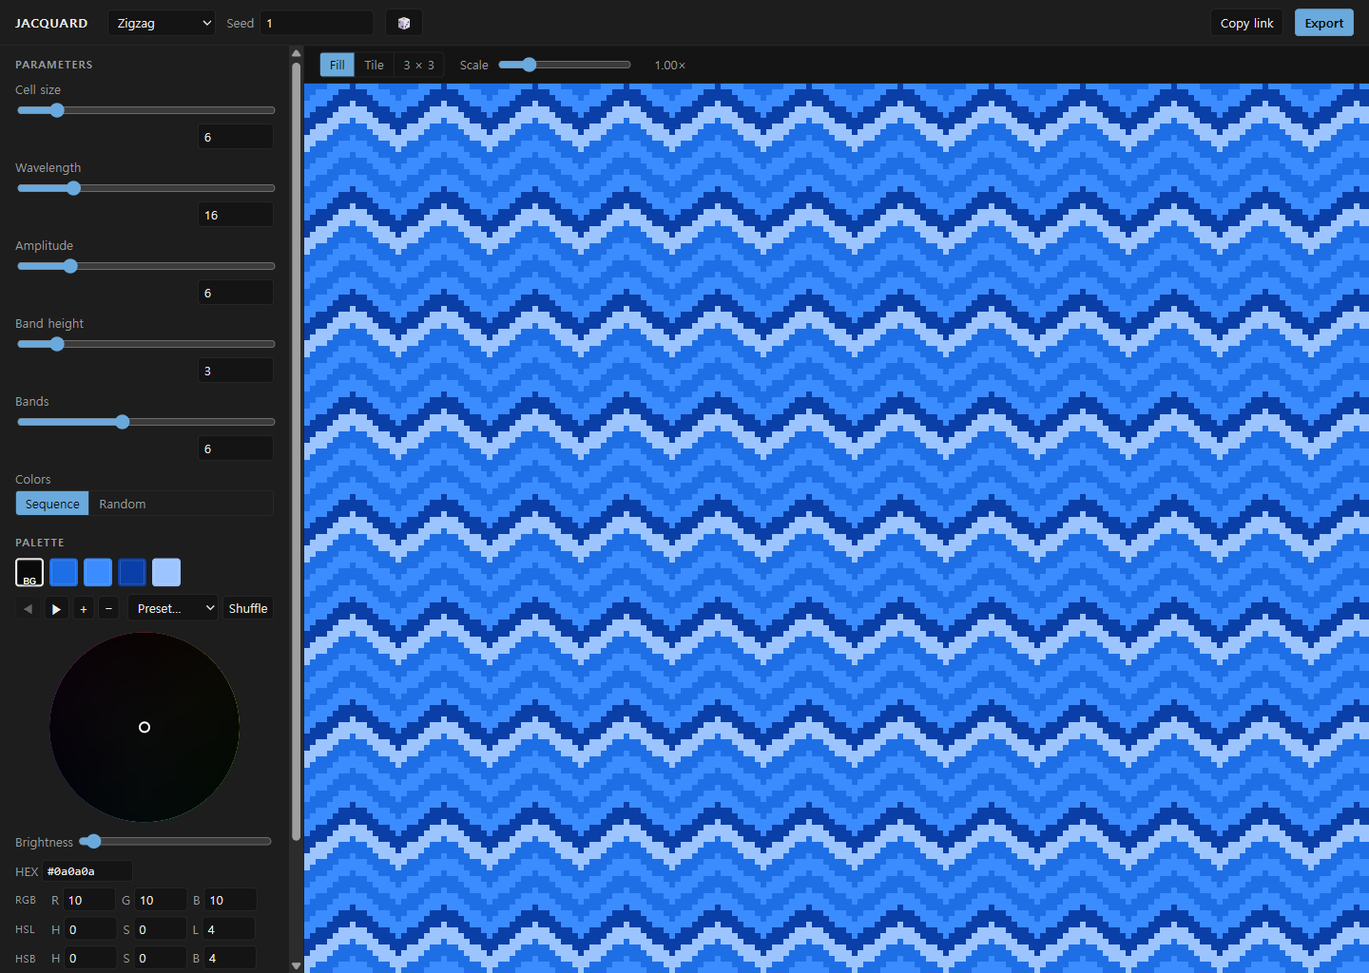
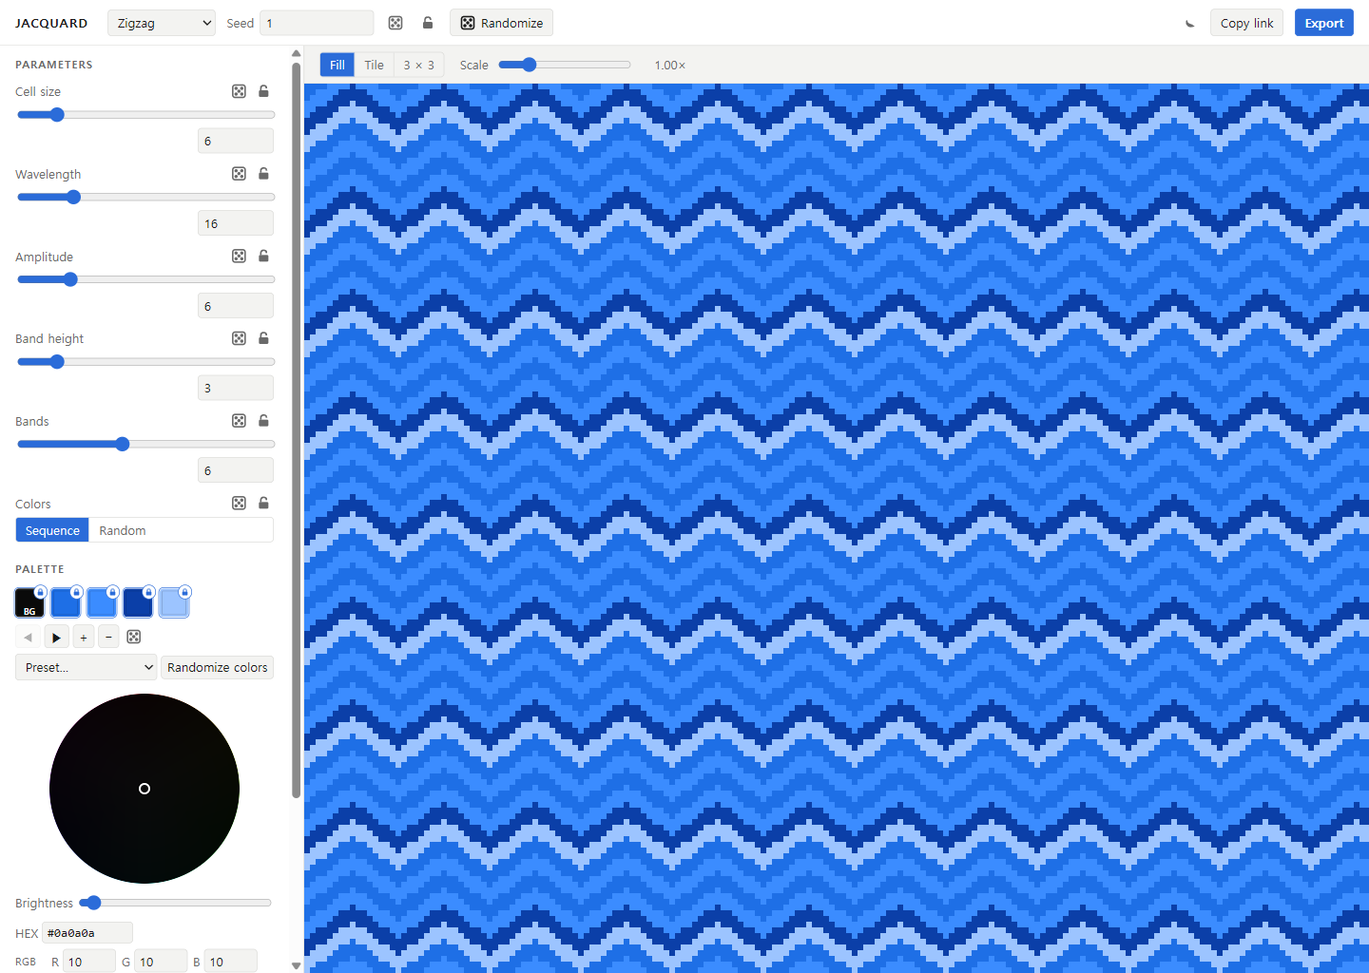
docs: v1.1 README·스크린샷(라이트 테마), 배포 기록
Claude-Session: https://claude.ai/code/session_011SGqeGVh1urf7c7diUsMhB

Changed region(s): [[0.0, 0.0, 1.0, 1.0]]

diff --git a/README.md b/README.md
@@ -25,10 +25,13 @@ canvas — 1080 × 1080, A3 at 300 dpi, or your own size up to 8192 px — as PN
 
 Everything is reproducible. A generator is a pure function of its parameters, the palette and a
 seeded PRNG, so the same seed always gives the same tile; the seed sits in the top bar with a dice
-button next to it. The complete state — generator, seed, every parameter and every colour — is
-base64url JSON in the URL hash, so **Copy link** hands someone else the exact pattern you are
-looking at. And because the generator only ever emits a small intermediate scene of rectangles,
-polygons and linear gradients, the tile you see on screen is the tile that gets exported.
+button next to it. **Randomize**, beside the seed, rerolls the seed, every parameter and every
+colour in one press — except what is locked: anything you set by hand locks itself, and a lock icon
+on every control and every swatch lets you pin the rest. The complete state — generator, seed,
+every parameter, every colour and every lock — is base64url JSON in the URL hash, so **Copy link**
+hands someone else the exact pattern you are looking at. And because the generator only ever emits
+a small intermediate scene of rectangles, polygons and linear gradients, the tile you see on screen
+is the tile that gets exported.
 
 ## Screenshots
 
@@ -51,6 +54,10 @@ polygons and linear gradients, the tile you see on screen is the tile that gets 
 | Palette editor — wheel, brightness, HEX/RGB/HSL/HSB | Export dialog — canvas mode |
 | --- | --- |
 | ![Palette panel with the colour wheel and numeric inputs](docs/screenshots/palette-editor.png) | ![Export dialog in canvas mode at 1080 × 1080](docs/screenshots/export-dialog.png) |
+
+| Locks and Randomize — two locked parameters, a locked seed | Palette locks — a badge on every locked swatch | Dark theme — the 3 × 3 view |
+| --- | --- | --- |
+| ![Top bar with Randomize, a locked seed and two locked parameters](docs/screenshots/locks-topbar.png) | ![Palette with lock badges on four of six swatches](docs/screenshots/palette-locks.png) | ![The same app in the dark theme](docs/screenshots/theme-dark.png) |
 
 ## Features
 
@@ -78,8 +85,15 @@ polygons and linear gradients, the tile you see on screen is the tile that gets 
   on the colour wheel (angle = hue, distance from centre = saturation), the brightness slider, or
   the HEX / RGB / HSL / HSB fields — all four stay in sync, and hue survives a trip through grey
 - **Eight preset palettes** — Missoni Blue, Walala, Underground, Boogie, Poppy Field, Bauhaus,
-  Neon Op, Candy Weave. **Shuffle** builds a new one instead: hues spaced by the golden angle
-  (137.5°), saturation 55–85, value 35–90, and a background that is either very light or very dark
+  Neon Op, Candy Weave. **Randomize colors** builds a new one instead: hues spaced by the golden
+  angle (137.5°), saturation 55–85, value 35–90, and a background that is either very light or
+  very dark
+- **Randomize with locks** — **Randomize** in the top bar changes the seed, every parameter and
+  every unlocked colour in one press, and never changes the generator. Anything you touched is
+  locked automatically; a lock icon sits on every control and a lock badge on every swatch, so you
+  can pin or release anything by hand; and a dice button next to each value rerolls just that one
+- **Light and dark themes** — light by default, with a sun / moon button in the top bar. The choice
+  is remembered in this browser under `jacquard-theme`; the OS setting is not consulted
 - **Three preview modes** — Fill repeats the tile across the whole canvas; Tile shows exactly one;
   3 × 3 shows nine with dashed boundary lines so you can check the seams. Scale runs 0.25× to 4×,
   and the panel reports the tile in units, in pixels at the current scale, and its shape count
@@ -91,8 +105,9 @@ polygons and linear gradients, the tile you see on screen is the tile that gets 
   stays within 8192 px. Files come out as `jacquard-<generator>-<seed>.png` / `.jpg`
 - **URL sharing** — the whole state is base64url JSON in the location hash, rewritten 300 ms after
   your last change. **Copy link** puts the current URL on the clipboard; opening it restores the
-  generator, seed, parameters and palette. A link with stale or hand-edited values still loads —
-  unknown parameters are dropped, numbers are snapped and clamped, bad colours fall back
+  generator, seed, parameters, palette and locks. A link with stale or hand-edited values still
+  loads — unknown parameters are dropped, numbers are snapped and clamped, bad colours fall back,
+  locks on keys the generator does not have or on swatches that do not exist are discarded
 
 ## Controls
 
@@ -102,7 +117,10 @@ The left panel is the instrument; the preview to the right is the result.
 | --- | --- |
 | Generator dropdown (top bar) | Switches generator. Parameters reset to that generator's defaults and the palette is kept, padded if the new generator needs more colours |
 | Seed field, `Enter` or blur | Sets the seed (integer, 0 … 4294967295). Out-of-range or non-numeric input is ignored |
-| 🎲 | Fresh random seed |
+| Randomize (top bar) | Rerolls the seed, every parameter and every colour that is not locked. The generator, the locks themselves and the palette length never change |
+| Dice next to a value / swatch | Randomizes only that value — one parameter, the seed, or the selected swatch. It never locks anything, and it works on a locked item too |
+| Lock icon / swatch badge | Locks or unlocks that parameter, the seed or that swatch. A locked item keeps its value through **Randomize**, and you can still edit it by hand |
+| Sun / moon | Switches between the light and the dark theme |
 | Copy link | Copies the current URL to the clipboard; the button reads **Copied** for 1.2 s (or **Copy failed**) |
 | Export | Opens the export dialog |
 | Parameter sliders, number boxes, segmented buttons, checkboxes | Redraw the tile immediately |
@@ -110,10 +128,18 @@ The left panel is the instrument; the preview to the right is the result.
 | ◀ ▶ | Move the selected colour along the palette |
 | `+` / `−` | Add a colour (up to 8) / remove the selected one (down to the generator's minimum) |
 | Preset… | Applies one of the eight preset palettes |
-| Shuffle | Generates a new palette of the same length |
+| Randomize colors | New colours for every unlocked swatch, at the same palette length |
 | Colour wheel, Brightness, HEX / RGB / HSL / HSB | Edit the selected colour |
 | Fill / Tile / 3 × 3 | Preview mode |
 | Scale slider | 0.25× to 4×, in quarter steps |
+
+Locks follow what you do. Moving a slider, typing in a number box, pressing a segmented button or
+ticking a checkbox locks that parameter; typing a seed locks the seed; editing a colour on the
+wheel, the brightness slider or the HEX / RGB / HSL / HSB fields locks that swatch; applying a
+preset locks every swatch. The per-value dice buttons and **Randomize colors** never lock anything.
+**Randomize** leaves every locked item alone and never changes the generator. Switching generators
+clears the parameter locks and keeps the seed and swatch locks. Locks travel with the URL, so a
+shared link arrives with the same things pinned.
 
 ## How a tile is built
 
@@ -141,8 +167,9 @@ The left panel is the instrument; the preview to the right is the result.
 - [React 19](https://react.dev) + TypeScript 6 + [Vite 8](https://vite.dev)
 - Canvas 2D for rendering and for PNG / JPG encoding (`toBlob`, JPEG quality 0.92) — no image
   libraries, no server round-trip
-- [Vitest](https://vitest.dev) — 181 tests across 18 files, run in the Node environment because
-  the generators, the Scene geometry and the colour maths never touch the DOM
+- [Vitest](https://vitest.dev) — 212 tests across 21 files, run in the Node environment because
+  the generators, the Scene geometry, the lock and randomisation rules and the colour maths never
+  touch the DOM
 - [oxlint](https://oxc.rs)
 - Runtime dependencies: `react` and `react-dom`, and nothing else. The PRNG, the colour
   conversions and the colour wheel (two stacked CSS gradients) are all in this repo
@@ -161,7 +188,9 @@ src/
 │   ├── scene.ts         # Scene IR, tileWrap, polygon clipping
 │   ├── params.ts        # Parameter definitions, snapping and clamping
 │   ├── state.ts         # PatternState, base64url hash encode / decode
-│   └── palettes.ts      # Presets, palette padding, golden-angle random palette
+│   ├── palettes.ts      # Presets, palette padding, golden-angle random palette
+│   ├── locks.ts         # LockState and the pure helpers that move locks around
+│   └── random.ts        # Random value / palette / whole-state rules, locks respected
 ├── generators/          # One pure function per generator
 │   ├── index.ts         # Registry + generateScene()
 │   ├── types.ts         # GeneratorDef, GenContext
@@ -172,24 +201,27 @@ src/
 │   ├── canvas.ts        # renderTile, renderFill (createPattern)
 │   └── export.ts        # Size presets, 8192 px limit, encode, download
 └── ui/
-    ├── TopBar.tsx       # Generator, seed, copy link, Export
+    ├── TopBar.tsx       # Generator, seed + lock + dice, Randomize, theme, copy link, Export
     ├── ControlPanel.tsx # Parameters + output readout
-    ├── ParamControl.tsx # range / select / toggle widgets
-    ├── PalettePanel.tsx # Swatches, presets, shuffle
+    ├── ParamControl.tsx # range / select / toggle widgets, each with a dice and a lock
+    ├── PalettePanel.tsx # Swatches with lock badges, presets, Randomize colors
+    ├── LockButton.tsx DiceButton.tsx   # 16 px inline-SVG icon buttons
+    ├── theme.ts         # light / dark, stored under `jacquard-theme`
     ├── ColorEditor.tsx ColorWheel.tsx ColorInputs.tsx colorMath.ts
     ├── Preview.tsx      # Fill / Tile / 3 × 3, scale
     └── ExportDialog.tsx
 ```
 
-`App.tsx` owns the single `PatternState` (generator, seed, params, palette); the Scene is derived
-from it with `useMemo`, and the view mode and preview scale are the only other pieces of state.
+`App.tsx` owns the single `PatternState` (generator, seed, params, palette, locks); the Scene is
+derived from it with `useMemo`, and the view mode, the preview scale and the theme are the only
+other pieces of state.
 
 ## Getting started
 
 ```bash
 npm install
 npm run dev        # http://localhost:5173
-npm test           # Vitest — 181 tests, 18 files
+npm test           # Vitest — 212 tests, 21 files
 npm run lint       # oxlint
 npm run build      # production build → dist/
 ```
@@ -212,6 +244,9 @@ npm run deploy     # build, then wrangler pages deploy dist --project-name=jacqu
   breakpoint and no touch gestures
 - **A shared link is read once, at load.** Pasting a different hash into a tab that is already
   open does nothing until you reload — there is no `hashchange` listener
+- **The theme is remembered in the browser, not in the URL.** Light or dark is stored in
+  `localStorage`, so a shared link always opens in whatever theme that browser was last set to,
+  and your choice does not follow you to another browser or machine
 - **The Export dialog does not close with `Esc`.** Use Cancel, or click outside it
 - **Very large tiles degrade rather than render.** If a tile exceeds what the browser will
   allocate as a canvas the preview shows *"Preview unavailable — tile too large for this
@@ -236,10 +271,12 @@ PNG·JPG로 내려받습니다.
 
 모든 결과는 재현됩니다. 생성기는 매개변수·팔레트·시드 PRNG만 입력으로 받는 순수 함수라
 같은 시드는 언제나 같은 타일을 냅니다. 시드는 상단 바에 있고 옆의 주사위 버튼으로 바꿉니다.
-생성기, 시드, 모든 매개변수와 모든 색을 담은 상태 전체가 URL 해시에 base64url JSON으로
-들어가므로 **Copy link** 한 번이면 지금 보고 있는 패턴을 그대로 넘길 수 있습니다. 또한
-생성기는 사각형·다각형·선형 그라데이션만으로 이루어진 작은 중간 표현(Scene)만 내놓기
-때문에, 화면에서 본 타일이 그대로 내보내집니다.
+그 옆의 **Randomize**는 시드·모든 매개변수·모든 색을 한 번에 새로 뽑습니다. 단 잠긴 것은
+건드리지 않습니다. 직접 손댄 값은 자동으로 잠기고, 모든 컨트롤과 모든 스와치에 달린 자물쇠로
+나머지도 직접 잠글 수 있습니다. 생성기, 시드, 모든 매개변수, 모든 색, 모든 잠금을 담은 상태
+전체가 URL 해시에 base64url JSON으로 들어가므로 **Copy link** 한 번이면 지금 보고 있는 패턴을
+그대로 넘길 수 있습니다. 또한 생성기는 사각형·다각형·선형 그라데이션만으로 이루어진 작은
+중간 표현(Scene)만 내놓기 때문에, 화면에서 본 타일이 그대로 내보내집니다.
 
 ## 스크린샷
 
@@ -262,6 +299,10 @@ PNG·JPG로 내려받습니다.
 | 팔레트 편집기 — 색상환, 명도, HEX/RGB/HSL/HSB | 내보내기 대화상자 — 캔버스 모드 |
 | --- | --- |
 | ![색상환과 숫자 입력이 있는 팔레트 패널](docs/screenshots/palette-editor.png) | ![1080 × 1080 캔버스 모드의 내보내기 대화상자](docs/screenshots/export-dialog.png) |
+
+| 잠금과 Randomize — 매개변수 2개와 시드 잠금 | 팔레트 잠금 — 잠긴 스와치의 배지 | 다크 테마 — 3 × 3 뷰 |
+| --- | --- | --- |
+| ![Randomize 버튼과 잠긴 시드·매개변수가 보이는 상단 바](docs/screenshots/locks-topbar.png) | ![여섯 색 중 네 색에 잠금 배지가 붙은 팔레트](docs/screenshots/palette-locks.png) | ![다크 테마로 본 같은 화면](docs/screenshots/theme-dark.png) |
 
 ## 주요 기능
 
@@ -289,8 +330,14 @@ PNG·JPG로 내려받습니다.
   거리 = 채도), 명도 슬라이더, HEX / RGB / HSL / HSB 입력 중 아무거나 쓰면 되고, 네 입력은 서로
   동기화되며 회색을 거쳐도 색상(H)이 유지됩니다
 - **프리셋 팔레트 8종** — Missoni Blue, Walala, Underground, Boogie, Poppy Field, Bauhaus,
-  Neon Op, Candy Weave. **Shuffle**은 대신 새 팔레트를 만듭니다. 색상은 황금각(137.5°) 간격,
-  채도 55–85, 명도 35–90, 배경은 아주 밝거나 아주 어둡게
+  Neon Op, Candy Weave. **Randomize colors**는 대신 새 팔레트를 만듭니다. 색상은 황금각(137.5°)
+  간격, 채도 55–85, 명도 35–90, 배경은 아주 밝거나 아주 어둡게
+- **Randomize와 잠금** — 상단 바의 **Randomize**는 시드, 모든 매개변수, 잠기지 않은 모든 색을
+  한 번에 바꾸고 생성기는 절대 바꾸지 않습니다. 한 번이라도 손댄 값은 자동으로 잠기고, 모든
+  컨트롤에는 자물쇠 아이콘이, 모든 스와치에는 자물쇠 배지가 있어 직접 잠그고 풀 수 있으며,
+  값마다 붙은 주사위 버튼은 그 값 하나만 다시 뽑습니다
+- **라이트·다크 테마** — 기본은 라이트이고 상단 바의 해/달 버튼으로 바꿉니다. 선택은 이
+  브라우저의 `jacquard-theme`에 기억되며, OS 설정은 따르지 않습니다
 - **미리보기 3모드** — Fill은 캔버스 전체를 타일로 채우고, Tile은 한 장만, 3 × 3은 아홉 장을
   파선 경계와 함께 보여 줘 이음새를 확인할 수 있습니다. 배율은 0.25×–4×이고, 패널은 타일의
   unit 크기, 현재 배율의 px 크기, 도형 개수를 알려 줍니다
@@ -301,9 +348,10 @@ PNG·JPG로 내려받습니다.
   *Canvas* 모드에서 반복하는 타일의 배율은 타일 한 변이 8192px 안에 들어오도록 자동으로
   낮춥니다. 파일명은 `jacquard-<생성기>-<시드>.png` / `.jpg`입니다
 - **URL 공유** — 상태 전체가 URL 해시에 base64url JSON으로 들어가며, 마지막 변경 300ms 뒤에
-  갱신됩니다. **Copy link**로 현재 주소를 복사하고, 그 주소를 열면 생성기·시드·매개변수·팔레트가
+  갱신됩니다. **Copy link**로 현재 주소를 복사하고, 그 주소를 열면 생성기·시드·매개변수·팔레트·잠금이
   복원됩니다. 낡거나 손으로 고친 링크도 열립니다. 모르는 매개변수는 버리고, 숫자는 step에 맞춰
-  스냅·클램프하며, 잘못된 색은 기본값으로 되돌립니다
+  스냅·클램프하며, 잘못된 색은 기본값으로 되돌리고, 생성기에 없는 키나 존재하지 않는 스와치의
+  잠금은 버립니다
 
 ## 조작 방법
 
@@ -313,7 +361,10 @@ PNG·JPG로 내려받습니다.
 | --- | --- |
 | 생성기 드롭다운(상단 바) | 생성기 전환. 매개변수는 그 생성기의 기본값으로 돌아가고, 팔레트는 유지됩니다(색이 모자라면 채워 넣습니다) |
 | 시드 입력 후 `Enter` 또는 포커스 해제 | 시드 지정(정수 0 … 4294967295). 범위 밖이거나 숫자가 아니면 무시합니다 |
-| 🎲 | 새 무작위 시드 |
+| Randomize(상단 바) | 잠기지 않은 시드·매개변수·색을 전부 새로 뽑습니다. 생성기, 잠금 자체, 팔레트 길이는 바뀌지 않습니다 |
+| 값·스와치 옆 주사위 | 그 값 하나만 무작위로 바꿉니다(매개변수 하나, 시드, 또는 선택한 스와치). 잠금은 걸지 않고, 잠긴 항목에도 그대로 동작합니다 |
+| 자물쇠 아이콘 / 스와치 배지 | 그 매개변수·시드·스와치의 잠금을 켜고 끕니다. 잠긴 항목은 **Randomize**에도 값이 유지되며, 직접 고치는 것은 그대로 됩니다 |
+| 해 / 달 | 라이트 테마와 다크 테마를 전환합니다 |
 | Copy link | 현재 주소를 클립보드로 복사. 버튼이 1.2초 동안 **Copied**(실패 시 **Copy failed**)로 바뀝니다 |
 | Export | 내보내기 대화상자를 엽니다 |
 | 매개변수 슬라이더·숫자 입력·분절 버튼·체크박스 | 타일을 즉시 다시 그립니다 |
@@ -321,10 +372,18 @@ PNG·JPG로 내려받습니다.
 | ◀ ▶ | 선택한 색을 팔레트 안에서 이동 |
 | `+` / `−` | 색 추가(최대 8) / 선택한 색 삭제(생성기 최소 색 수까지) |
 | Preset… | 프리셋 팔레트 8종 중 하나를 적용 |
-| Shuffle | 같은 길이의 팔레트를 새로 생성 |
+| Randomize colors | 잠기지 않은 스와치를 전부 새 색으로. 팔레트 길이는 그대로 |
 | 색상환, Brightness, HEX / RGB / HSL / HSB | 선택한 색을 편집 |
 | Fill / Tile / 3 × 3 | 미리보기 모드 |
 | 배율 슬라이더 | 0.25×–4×, 0.25 단위 |
+
+잠금은 사용자의 조작을 따라갑니다. 슬라이더를 움직이거나 숫자 입력·분절 버튼·체크박스로 값을
+바꾸면 그 매개변수가 잠기고, 시드를 입력하면 시드가 잠기며, 색상환·명도 슬라이더·HEX / RGB /
+HSL / HSB로 색을 바꾸면 그 스와치가 잠기고, 프리셋을 적용하면 스와치 전체가 잠깁니다. 값마다
+붙은 주사위 버튼과 **Randomize colors**는 아무것도 잠그지 않습니다. **Randomize**는 잠긴 항목을
+건드리지 않고 생성기도 바꾸지 않습니다. 생성기를 바꾸면 매개변수 잠금은 초기화되고 시드·스와치
+잠금은 유지됩니다. 잠금은 URL에 함께 담기므로, 공유한 링크를 열면 같은 항목이 잠긴 채로
+나타납니다.
 
 ## 타일이 만들어지는 방식
 
@@ -351,8 +410,8 @@ PNG·JPG로 내려받습니다.
 - [React 19](https://react.dev) + TypeScript 6 + [Vite 8](https://vite.dev)
 - 렌더와 PNG / JPG 인코딩 모두 Canvas 2D (`toBlob`, JPEG 품질 0.92). 이미지 라이브러리도, 서버
   왕복도 없습니다
-- [Vitest](https://vitest.dev) — 18개 파일 181개 테스트. 생성기·Scene 기하·색 변환이 DOM과 무관해
-  Node 환경에서 그대로 돌립니다
+- [Vitest](https://vitest.dev) — 21개 파일 212개 테스트. 생성기·Scene 기하·잠금과 무작위 규칙·색
+  변환이 DOM과 무관해 Node 환경에서 그대로 돌립니다
 - [oxlint](https://oxc.rs)
 - 런타임 의존성은 `react`와 `react-dom` 둘뿐입니다. PRNG, 색 변환, 색상환(CSS 그라데이션 두 겹)은
   모두 이 저장소 안에 있습니다
@@ -371,7 +430,9 @@ src/
 │   ├── scene.ts         # Scene IR, tileWrap, 다각형 클리핑
 │   ├── params.ts        # 매개변수 정의, 스냅과 클램프
 │   ├── state.ts         # PatternState, base64url 해시 인코딩/디코딩
-│   └── palettes.ts      # 프리셋, 팔레트 채우기, 황금각 무작위 팔레트
+│   ├── palettes.ts      # 프리셋, 팔레트 채우기, 황금각 무작위 팔레트
+│   ├── locks.ts         # LockState와 잠금을 옮기는 순수 헬퍼
+│   └── random.ts        # 값·팔레트·상태 전체의 무작위 규칙(잠금 존중)
 ├── generators/          # 생성기 하나당 순수 함수 하나
 │   ├── index.ts         # 레지스트리 + generateScene()
 │   ├── types.ts         # GeneratorDef, GenContext
@@ -382,24 +443,26 @@ src/
 │   ├── canvas.ts        # renderTile, renderFill (createPattern)
 │   └── export.ts        # 크기 프리셋, 8192px 상한, 인코딩, 내려받기
 └── ui/
-    ├── TopBar.tsx       # 생성기, 시드, 링크 복사, Export
+    ├── TopBar.tsx       # 생성기, 시드 + 자물쇠 + 주사위, Randomize, 테마, 링크 복사, Export
     ├── ControlPanel.tsx # 매개변수 + 출력 정보
-    ├── ParamControl.tsx # range / select / toggle 위젯
-    ├── PalettePanel.tsx # 스와치, 프리셋, 셔플
+    ├── ParamControl.tsx # range / select / toggle 위젯, 각각 주사위와 자물쇠
+    ├── PalettePanel.tsx # 자물쇠 배지가 달린 스와치, 프리셋, Randomize colors
+    ├── LockButton.tsx DiceButton.tsx   # 16px 인라인 SVG 아이콘 버튼
+    ├── theme.ts         # 라이트 / 다크, `jacquard-theme`에 저장
     ├── ColorEditor.tsx ColorWheel.tsx ColorInputs.tsx colorMath.ts
     ├── Preview.tsx      # Fill / Tile / 3 × 3, 배율
     └── ExportDialog.tsx
 ```
 
-`App.tsx`가 `PatternState`(생성기, 시드, 매개변수, 팔레트) 하나를 소유하고 Scene은 거기서
-`useMemo`로 파생됩니다. 그 밖의 상태는 미리보기 모드와 배율뿐입니다.
+`App.tsx`가 `PatternState`(생성기, 시드, 매개변수, 팔레트, 잠금) 하나를 소유하고 Scene은 거기서
+`useMemo`로 파생됩니다. 그 밖의 상태는 미리보기 모드, 배율, 테마뿐입니다.
 
 ## 실행 / 배포
 
 ```bash
 npm install
 npm run dev        # http://localhost:5173
-npm test           # Vitest — 18개 파일 181개 테스트
+npm test           # Vitest — 21개 파일 212개 테스트
 npm run lint       # oxlint
 npm run build      # 프로덕션 빌드 → dist/
 npm run deploy     # 빌드 후 wrangler pages deploy dist --project-name=jacquard
@@ -416,6 +479,9 @@ npm run deploy     # 빌드 후 wrangler pages deploy dist --project-name=jacqua
   제스처가 없습니다
 - **공유 링크는 로드할 때 한 번만 읽습니다.** 이미 열려 있는 탭의 주소창에 다른 해시를 붙여
   넣어도 새로고침 전에는 아무 일도 일어나지 않습니다. `hashchange` 리스너가 없습니다
+- **테마는 URL에 저장되지 않고 브라우저에만 기억됩니다.** 라이트/다크는 `localStorage`에
+  들어가므로, 공유한 링크는 언제나 그 브라우저가 마지막으로 쓰던 테마로 열리고, 선택은 다른
+  브라우저나 다른 기기로 따라가지 않습니다
 - **내보내기 대화상자는 `Esc`로 닫히지 않습니다.** Cancel을 누르거나 바깥을 클릭하세요
 - **아주 큰 타일은 렌더 대신 안내로 대체됩니다.** 브라우저가 캔버스로 잡아 줄 수 있는 크기를
   넘으면 미리보기에 *"Preview unavailable — tile too large for this browser"* 가 뜨고,

diff --git a/docs/superpowers/specs/2026-09-16-jacquard-design.md b/docs/superpowers/specs/2026-09-16-jacquard-design.md
@@ -470,6 +470,7 @@ export function mix(a: string, b: string, t?: number): string; // RGB 선형 혼
 - GitHub: `gh repo create dostevskii/jacquard --private --source=. --push`는 설계 문서 첫 커밋 직후 실행한다.
 - 배포는 7단계에서 wrangler 로그인 상태를 확인한 뒤 실행하고, 배포 URL을 README와 About에 기록한다.
 - 프로덕션 URL: https://jacquard-aou.pages.dev (2026-09-16 배포)
+- v1.1 배포: 2026-09-17 (Randomize·잠금·라이트 테마)
 
 ## 10. 결정 기록
 
